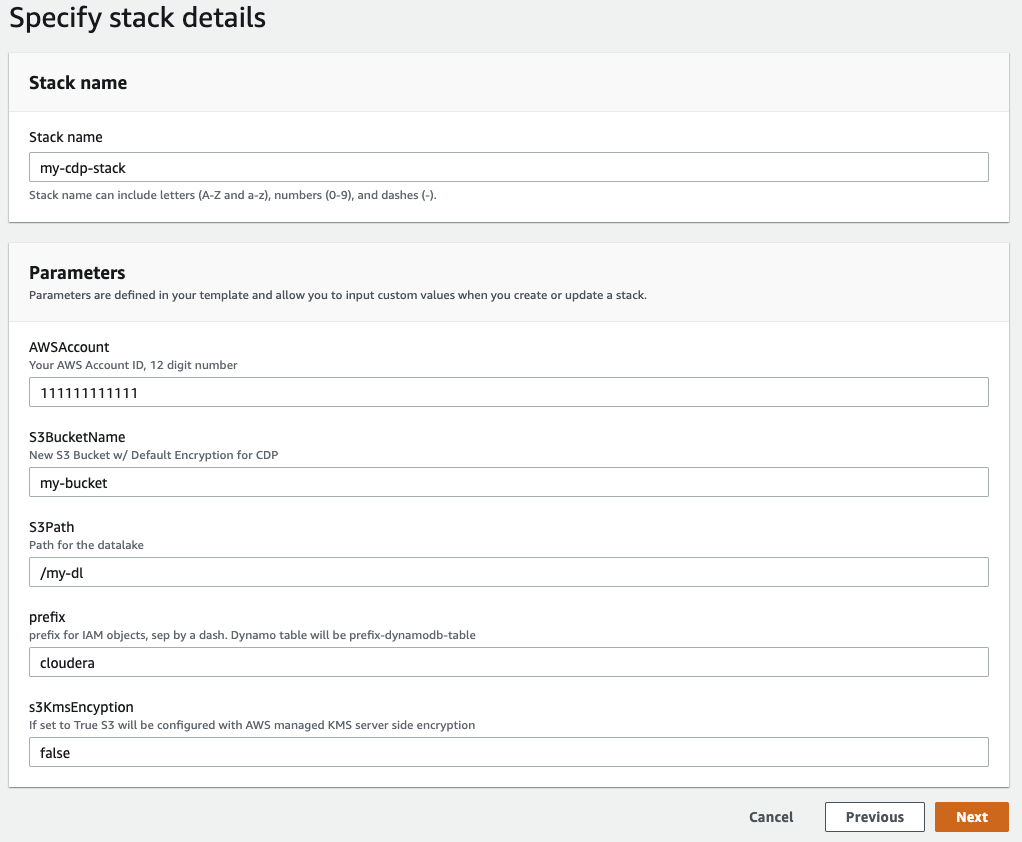
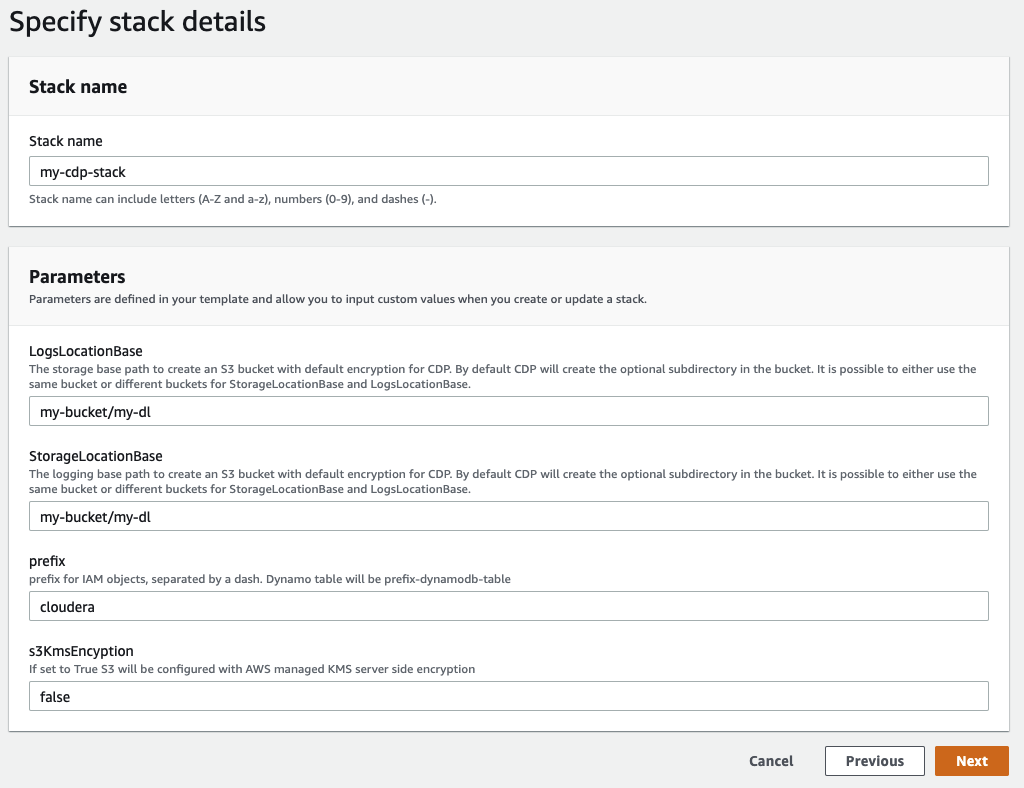
Use StorageLocationBase and LogsLocationBase for template parameters
Use StorageLocationBase and LogsLocationBase for template parameters
rather than the bucket and bucket path.

diff --git a/README.md b/README.md
@@ -75,8 +75,8 @@ In order to complete this quickstart, you'll need access to two things.
      4. Select the template file you just downloaded.
      5. Click **Next**
      6. Enter your stack name.  This can be any valid name.  Below you should change
-        - S3BucketName - choose an unused bucket name, CDP will be creating the bucket for you
-        - S3Path - choose the path inside the bucket
+        - LogsLocationBase - choose an unused bucket name and path for the logs, CDP will be creating the bucket for you. The same bueckt can be used for both LogsLocationBase and StorageLocationBase.
+        - StorageLocationBase - choose an unused bucket name and path for the data, CDP will be creating the bucket for you. The same bueckt can be used for both LogsLocationBase and StorageLocationBase.
         - prefix - a short prefix of your choosing to add to the names of the IAM resources we'll be creating.
 
         ![parsed](screenshots/stackparsed.png?raw=true)
@@ -106,7 +106,7 @@ In order to complete this quickstart, you'll need access to two things.
     5. Under *Amazon Web Services Credential*, chose the credential we created earlier. 
     6. Click **Next**
     7. Under *Data Lake Settings*, give your new Data Lake a name.  The name can be any valid name. Choose the latest Data Lake Version
-    8.  Under *Data Access*, choose the **prefix-data-access-instance-profile**, for *Storage Location Base* choose **S3Bucketname**/**S3Path**.
+    8.  Under *Data Access*, choose the **prefix-data-access-instance-profile**, for *Storage Location Base* choose the same **StorageLocationBase** from the cloud formation template.
 
         ![data](screenshots/data.png?raw=true)
 
@@ -122,7 +122,7 @@ In order to complete this quickstart, you'll need access to two things.
         ![dynamo](screenshots/dynamo.png?raw=true)
 
     16. (optional) Provide any tags you'd like these resources to be tagged with. 
-    17. Under *Logs - Storage and Audit*, choose the Instance Profile we mentioned to save earlier, titled **prefix-log-access-instance-profile**, for logs location base choose **S3BucketName/S3Path**, and for *Ranger Audit Role* choose **prefix-ranger-audit-role**
+    17. Under *Logs - Storage and Audit*, choose the Instance Profile we mentioned to save earlier, titled **prefix-log-access-instance-profile**, for logs location base choose the same **LogsLocationBase** from the cloud formation template, and for *Ranger Audit Role* choose **prefix-ranger-audit-role**
 
         ![logs](screenshots/logs.png?raw=true)
 
